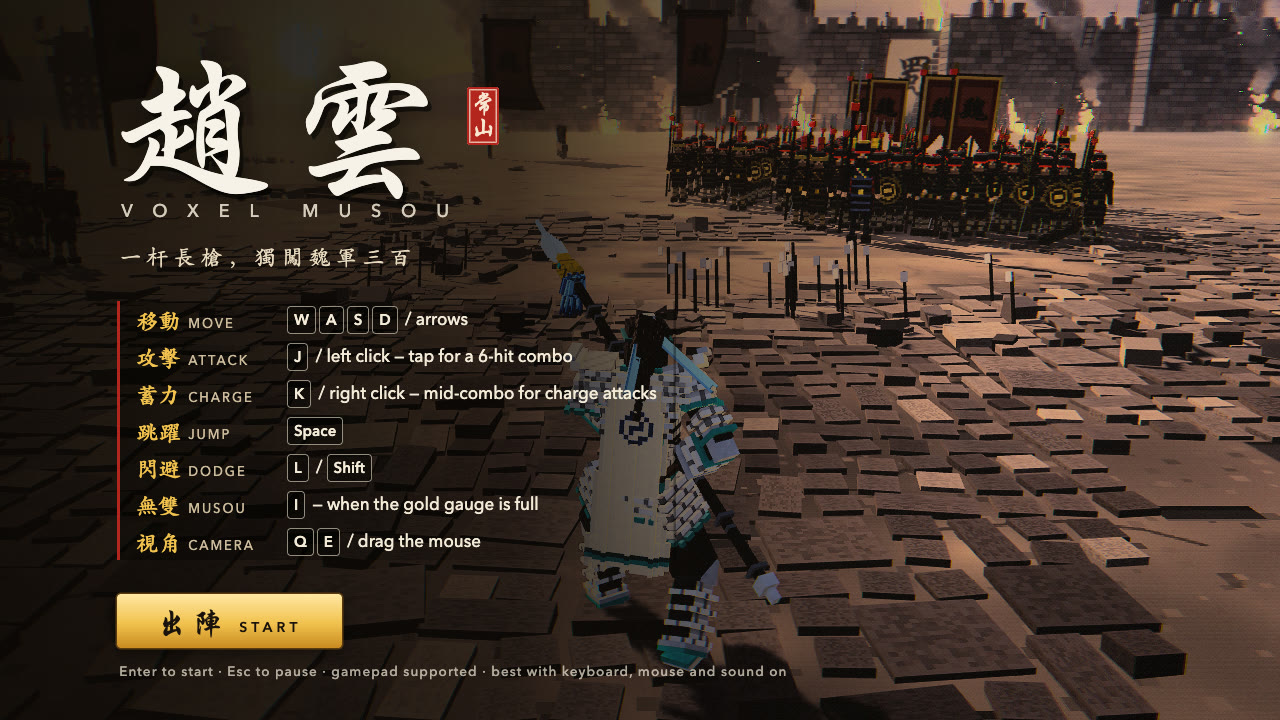
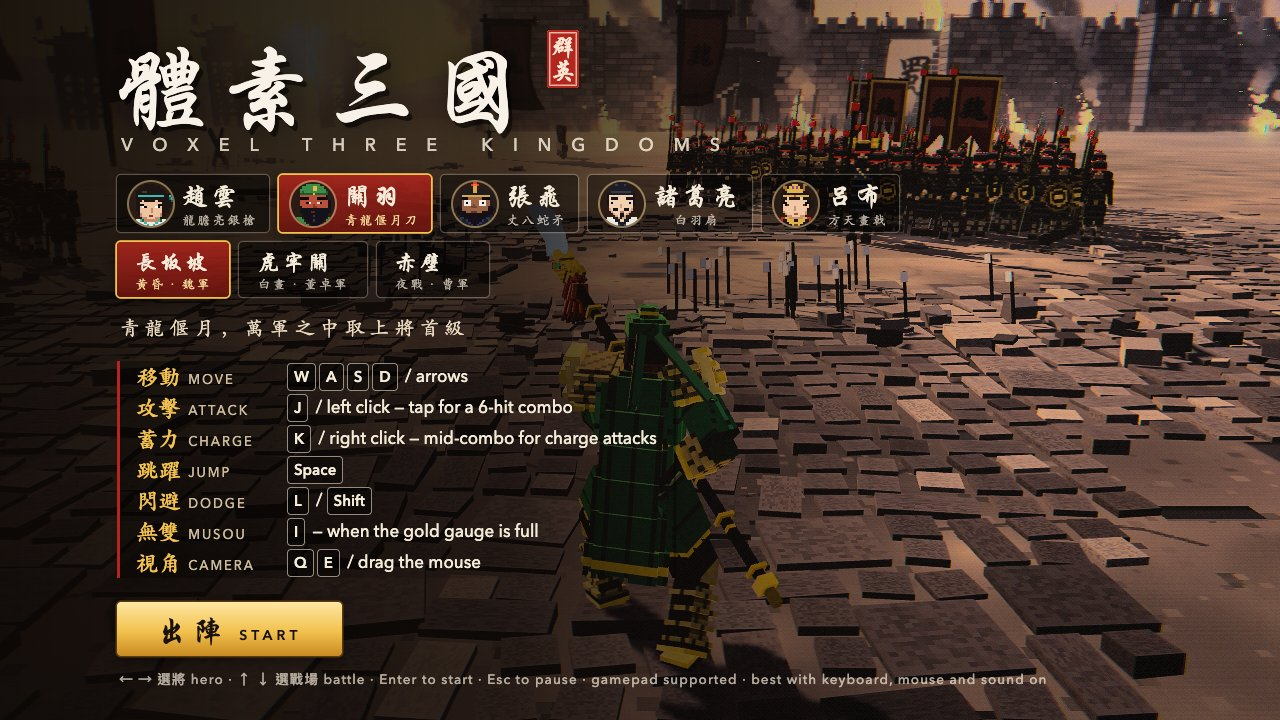
README, new media for the roster and stages

diff --git a/README.md b/README.md
@@ -1,84 +1,92 @@
-**English** | [简体中文](README.zh-CN.md) | [日本語](README.ja.md)
+# 體素三國 · Voxel Three Kingdoms
 
-# Voxel Musou — Zhao Yun (趙雲)
+<p align="center"><img src="media/title.jpg" alt="體素三國 标题页：选将、选战场" width="100%"></p>
 
-<p align="center">
-  <a href="https://voxel-musou.vercel.app"><img src="media/gameplay.gif" alt="Zhao Yun vs 300 soldiers — the Musou" width="100%"></a>
-</p>
+一款浏览器里就能玩的体素风三国割草动作游戏，基于 Three.js。五名武将、三处战场，一人独闯数百敌军。
 
-<p align="center"><b><a href="https://voxel-musou.vercel.app">▶ Play in your browser — voxel-musou.vercel.app</a></b></p>
+无需构建：纯 ES 模块，Three.js r186 已内置于 `vendor/three/`，逻辑以固定 60 Hz 确定性步进运行。
 
-| | |
-| --- | --- |
-| ![Crowd fight, 400+ hit chain](media/crowd.jpg) | ![Charge sweep](media/sweep.jpg) |
-| Crowd fight, 400+ hit chain | Charge sweep |
-| ![Musou cut-in](media/musou.jpg) | ![Musou dragon, 150 K.O.](media/dragon.jpg) |
-| Musou cut-in | Musou dragon, 150 K.O. |
+*A browser-playable voxel hack-and-slash set in the Three Kingdoms. Five officers, three battles, hundreds of soldiers. Plain ES modules, no build step.*
 
-A browser-playable voxel action game in the style of Dynasty Warriors, built with Three.js. Take the field as Zhao Yun and cut through hundreds of Wei soldiers with his spear.
+## 武将
 
-No build step: plain ES modules, Three.js r186 vendored in `vendor/three/`, deterministic fixed 60 Hz simulation.
+![五名武将：赵云、关羽、张飞、诸葛亮、吕布](media/heroes.jpg)
 
-## Features
+| 武将 | 兵器 | 特点 |
+| --- | --- | --- |
+| **趙雲** 常山 | 龍膽亮銀槍 | 白银鳞甲、马尾与飘带、蓝色枪缨 |
+| **關羽** 武聖 | 青龍偃月刀 | 绿袍金甲、吞肩兽、垂到腹部的美髯 |
+| **張飛** 燕人 | 丈八蛇矛 | 豹头环眼、虎须、红缨铁盔、虎皮战裙 |
+| **諸葛亮** 臥龍 | 白羽扇 | 纶巾鹤氅、八卦披风，出招时羽扇化出风刃 |
+| **呂布** 飛將 | 方天畫戟 | 紫金冠、双雉鸡翎、黑金兽面甲、红锦袍 |
 
-- Flowing normal combos (N1–N6) and charge attacks (C1–C6)
-- Jump, jump attack and dodge
-- Hit-stop and impact VFX
-- Dense voxel crowds of Wei soldiers (~300, InstancedMesh) blasted apart into voxel debris
-- Enemy officers with name and HP tags
-- Musou special attack with a dragon and screen color grade
-- Golden-hour castle battlefield with fires and banners
-- Custom post-processing: atmospheric haze, depth of field, bloom, retro pixel look
-- Procedural WebAudio sound
-- Calligraphy-style HUD
+每名武将有自己的模型、兵器、飘动部件（披风、胡须、翎羽、缨穗都是弹簧链）、像素头像、台词和无双特写。
 
-## Run
+## 战场
 
-ES modules don't load from `file://`, so serve the folder with any static server:
+| | | |
+| --- | --- | --- |
+| ![长坂坡](media/changban.jpg) | ![虎牢关](media/hulao.jpg) | ![赤壁](media/chibi.jpg) |
+| **長坂坡** · 黄昏 · 魏军 | **虎牢關** · 白昼 · 董卓军 | **赤壁** · 夜战火攻 · 曹军 |
+
+每处战场有自己的天空、光照、画面风格、敌军旗号与军服颜色、敌将阵容，部分武将还有专属开场台词（比如虎牢关的关羽：「溫酒之間，斬汝華雄！」）。
+
+![无双特写](media/musou.jpg)
+
+## 运行
+
+ES 模块无法通过 `file://` 加载，请用任意静态服务器托管此目录：
 
 ```sh
 python3 -m http.server 8000
 ```
 
-Then open http://localhost:8000 . Requires a WebGL2 browser; a desktop GPU is recommended. Sound starts on the first key press or click.
+然后打开 http://localhost:8000 。需要支持 WebGL2 的浏览器，推荐使用独立显卡的桌面电脑。
 
-## Controls
+## 操作
 
-Keyboard and mouse; a gamepad is optional.
-
-| Action | Keys |
+| 动作 | 按键 |
 | --- | --- |
-| Move (camera-relative) | WASD / arrow keys |
-| Normal attack | J / left mouse |
-| Charge attack | K / right mouse |
-| Jump | Space |
-| Dodge | L / Shift |
-| Musou | I |
-| Camera orbit | mouse drag / Q E |
-| Pause / controls | Esc |
-| Start | Enter / click 出陣 |
+| 移动 | WASD / 方向键 |
+| 普通攻击（6 段连击） | J / 鼠标左键 |
+| 蓄力攻击 | K / 鼠标右键 |
+| 跳跃 | 空格 |
+| 闪避 | L / Shift |
+| 无双（金色槽满时） | I |
+| 旋转镜头 | Q E / 鼠标拖动 |
+| 暂停 | Esc |
+| 标题页选将 / 选战场 | ← → / ↑ ↓ |
 
-![Title screen with the full controls](media/title.jpg)
+也支持手柄。
 
-## Options
+## URL 参数
 
-| URL parameter | Description |
+| 参数 | 说明 |
 | --- | --- |
-| `?enemies=N` | Number of enemy soldiers, 0–2000 (default 300) |
+| `?hero=` | `zhaoyun` `guanyu` `zhangfei` `zhugeliang` `lubu` |
+| `?stage=` | `changban` `hulao` `chibi` |
+| `?look=` | 画面风格：`dusk` 黄昏电影 · `ink` 水墨 · `night` 夜战 · `bright` 明快 · `retro` 像素 |
+| `?enemies=N` | 敌兵数量，0–2000（默认 300） |
+| `?zoom=0.5` | 调试：拉近镜头 |
+| `?musou` | 调试：开局无双槽满 |
 
-## Project layout
+## 目录结构
 
 ```
-index.html      entry point, importmap, HUD CSS
-src/            core, hero, combat, crowd, musou, camera, vfx, post, world, audio, ui
+index.html      入口、importmap、HUD 与标题页样式
+src/heroes/     每名武将一个文件：模型、兵器、弹簧链、头像、台词
+src/stages/     战场配置：天空、光照、敌军、台词
+src/            core、hero、combat、crowd、musou、camera、vfx、post、world、audio、ui
 vendor/three/   Three.js r186
-media/          README screenshots and GIF
 ```
 
-## Credits & License
+新增武将：在 `src/heroes/` 仿照现有文件写一个定义（`build()` 返回各关节的体素块，`chains()` 返回飘动部件），再加进 `src/heroes/index.js`。
 
-- Code: MIT, see [LICENSE](LICENSE).
-- [three.js](https://threejs.org/): MIT.
-- HUD fallback font `src/ui/brush.woff2` is a subset of Yuji Boku by Kinuta Font Factory, licensed under the SIL Open Font License 1.1.
+## 致谢与许可
 
-This is a fan project, not affiliated with or endorsed by KOEI TECMO. "Dynasty Warriors" is a trademark of KOEI TECMO. No game assets from the original games are included.
+- 基于 BubuAi 的 [Voxel Musou](https://github.com/mike007jd/voxel-musou)（MIT）。战斗、人群 AI、镜头、特效、后处理和音频系统都来自原作。
+- 代码：MIT 许可，见 [LICENSE](LICENSE)。
+- [three.js](https://threejs.org/)：MIT 许可。
+- HUD 备用字体 `src/ui/brush.woff2` 是 Yuji Boku（Kinuta Font Factory）的子集，采用 SIL Open Font License 1.1 授权。
+
+本项目为同人作品，与 KOEI TECMO 无关，也未获其认可。“真·三国无双 / Dynasty Warriors” 是 KOEI TECMO 的商标。本项目不包含任何原作游戏素材。
